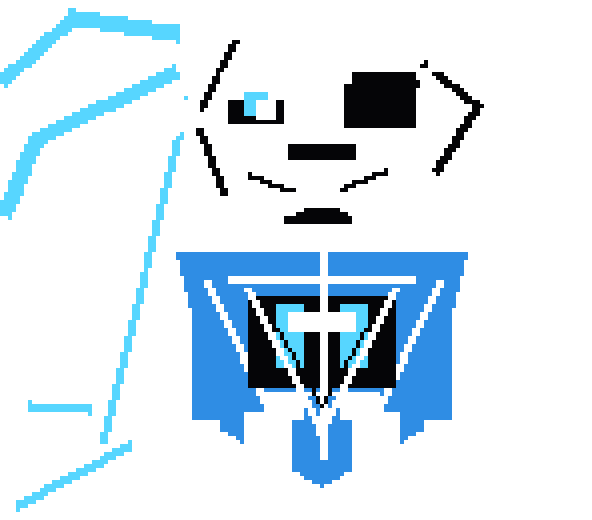
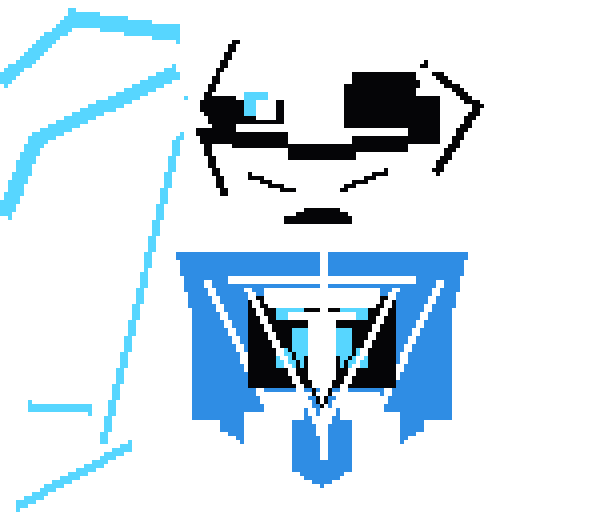
Improve roster pixels and attack pacing

Changed region(s): [[0.4257, 0.5538, 0.6689, 0.7692], [0.5777, 0.1846, 0.7601, 0.3077], [0.3345, 0.1846, 0.4865, 0.3077]]

diff --git a/script.js b/script.js
@@ -349,9 +349,9 @@ const projectileHitboxes = {
 };
 const waveTuning = {
   undyne: [
-    { rate: 0.94, speed: 1.08, length: 10.5, cap: 18 },
-    { rate: 0.86, speed: 1.04, length: 11.5, cap: 24 },
-    { rate: 1.06, speed: 1.12, length: 10.5, cap: 22 },
+    { rate: 1.04, speed: 1.14, length: 10.5, cap: 20 },
+    { rate: 0.96, speed: 1.1, length: 11.5, cap: 26 },
+    { rate: 1.14, speed: 1.18, length: 10.5, cap: 24 },
   ],
   asgore: [
     { rate: 0.8, speed: 0.98, length: 12.5, cap: 28 },
@@ -374,9 +374,9 @@ const waveTuning = {
     { rate: 1.24, speed: 1.22, length: 10, cap: 34 },
   ],
   undying: [
-    { rate: 1.18, speed: 1.12, length: 9.8, cap: 22 },
-    { rate: 1.28, speed: 1.18, length: 9.8, cap: 24 },
-    { rate: 1.08, speed: 1.14, length: 10.5, cap: 30 },
+    { rate: 1.26, speed: 1.16, length: 9.8, cap: 24 },
+    { rate: 1.34, speed: 1.22, length: 9.8, cap: 26 },
+    { rate: 1.14, speed: 1.18, length: 10.5, cap: 32 },
   ],
   omega: [
     { rate: 1.04, speed: 1.04, length: 12, cap: 36 },
@@ -389,9 +389,9 @@ const waveTuning = {
     { rate: 1.1, speed: 1.12, length: 12, cap: 36 },
   ],
   mettaton: [
-    { rate: 0.92, speed: 1.04, length: 12, cap: 26 },
-    { rate: 1.04, speed: 1.1, length: 11.5, cap: 30 },
-    { rate: 1.12, speed: 1.16, length: 10.5, cap: 32 },
+    { rate: 1.0, speed: 1.08, length: 12, cap: 28 },
+    { rate: 1.12, speed: 1.14, length: 11.5, cap: 32 },
+    { rate: 1.2, speed: 1.2, length: 10.5, cap: 34 },
   ],
 };
 
@@ -1112,8 +1112,8 @@ function runPattern(dt) {
 function undynePattern(dt) {
   if (state.wave === 0) {
     const progress = attackIntensity();
-    const interval = 0.6 - progress * 0.2;
-    const arrowSpeed = 224 + progress * 86;
+    const interval = 0.56 - progress * 0.18;
+    const arrowSpeed = 246 + progress * 88;
     const chordStep = 0.12 - progress * 0.05;
     const chord = sequencedEvery("spear-rain", interval, dt, [
       "up",
@@ -1132,14 +1132,14 @@ function undynePattern(dt) {
     ]);
     if (chord) spawnUndyneArrowChord(arrowSpeed, chord.split(" "), chordStep);
   }
-  if (state.wave === 1 && every("cross-lances", 0.56, dt)) {
-    const index = sequenceIndex(0.56);
+  if (state.wave === 1 && every("cross-lances", 0.5, dt)) {
+    const index = sequenceIndex(0.5);
     const lane = [0.18, 0.36, 0.64, 0.82, 0.5, 0.28, 0.72][index % 7];
     const fromLeft = index % 2 === 0;
-    spawn("spear", { x: fromLeft ? arena.x - 35 : arena.x + arena.w + 35, y: arena.y + arena.h * lane, vx: fromLeft ? 348 : -348, vy: 0, r: 13, angle: fromLeft ? 0 : Math.PI, delay: intensityRange(0.3, 0.2) });
+    spawn("spear", { x: fromLeft ? arena.x - 35 : arena.x + arena.w + 35, y: arena.y + arena.h * lane, vx: fromLeft ? 372 : -372, vy: 0, r: 13, angle: fromLeft ? 0 : Math.PI, delay: intensityRange(0.28, 0.19) });
     if (index % 3 !== 1) {
       const x = arena.x + arena.w * ([0.24, 0.5, 0.76, 0.38, 0.62][index % 5]);
-      spawn("spear", { x, y: arena.y - 35, vx: 0, vy: 306, r: 13, angle: Math.PI / 2, delay: intensityRange(0.36, 0.25) });
+      spawn("spear", { x, y: arena.y - 35, vx: 0, vy: 326, r: 13, angle: Math.PI / 2, delay: intensityRange(0.32, 0.23) });
     }
   }
   if (state.wave === 2 && every("cyclone", 0.34 - attackIntensity() * 0.06, dt)) {
@@ -1444,7 +1444,7 @@ function undyingPattern(dt) {
         "down left up",
       ];
       const chord = chords[sequenceIndex(aimedInterval) % chords.length];
-      spawnUndyneArrowChord(268 + progress * 62, chord.split(" "), Math.max(0.045, 0.09 - progress * 0.035));
+      spawnUndyneArrowChord(286 + progress * 66, chord.split(" "), Math.max(0.04, 0.085 - progress * 0.035));
     }
     else {
       const index = sequenceIndex(aimedInterval);
@@ -1454,7 +1454,7 @@ function undyingPattern(dt) {
       const x = edge === 0 ? arena.x - 36 : edge === 1 ? arena.x + arena.w + 36 : arena.x + arena.w * lane;
       const y = edge === 2 ? arena.y - 36 : edge === 3 ? arena.y + arena.h + 36 : arena.y + arena.h * lane;
       const a = Math.atan2(state.player.y - y, state.player.x - x);
-      spawn("spear", { x, y, vx: Math.cos(a) * (276 + progress * 38), vy: Math.sin(a) * (276 + progress * 38), r: 12, angle: a, delay: intensityRange(0.22, 0.14) });
+      spawn("spear", { x, y, vx: Math.cos(a) * (298 + progress * 42), vy: Math.sin(a) * (298 + progress * 42), r: 12, angle: a, delay: intensityRange(0.2, 0.13) });
     }
   }
   const crossInterval = 0.58 - progress * 0.06;
@@ -1655,9 +1655,9 @@ function asrielPattern(dt) {
 function mettatonPattern(dt) {
   const t = patternClock();
   const progress = attackIntensity();
-  const spotInterval = state.wave === 2 ? 0.82 : 0.76 - progress * 0.08;
-  const bombInterval = 0.46 - progress * 0.08;
-  const legInterval = 0.66 - progress * 0.08;
+  const spotInterval = state.wave === 2 ? 0.72 : 0.7 - progress * 0.08;
+  const bombInterval = 0.42 - progress * 0.07;
+  const legInterval = 0.6 - progress * 0.08;
   if (every("mettaton-spot", spotInterval, dt)) {
     const lanes = [0.2, 0.42, 0.64, 0.82, 0.36];
     spawn("beam", {
@@ -1693,7 +1693,7 @@ function mettatonPattern(dt) {
   }
   if (state.wave === 2 && every("mettaton-rush", legInterval, dt)) {
     const y = arena.y + arena.h * ([0.22, 0.44, 0.68, 0.82, 0.36][sequenceIndex(legInterval) % 5]);
-    spawn("leg", { x: arena.x + arena.w + 45, y, vx: -448, vy: 0, r: 22, angle: Math.PI, delay: intensityRange(0.36, 0.25) });
+    spawn("leg", { x: arena.x + arena.w + 45, y, vx: -482, vy: 0, r: 22, angle: Math.PI, delay: intensityRange(0.32, 0.23) });
   }
   if (state.wave === 2 && every("mettaton-ratings-pellets", 0.34 - progress * 0.05, dt)) {
     const index = sequenceIndex(0.34 - progress * 0.05);

diff --git a/tools/generate_boss_portraits.py b/tools/generate_boss_portraits.py
@@ -97,6 +97,11 @@ def sans():
     for x in range(72, 89, 5):
         rect(d, (x, 42, x + 1, 48), BLACK)
     rect(d, (91, 38, 98, 42), BLACK)
+    rect(d, (60, 29, 67, 36), BLACK)
+    rect(d, (93, 29, 100, 36), BLACK)
+    rect(d, (63, 32, 67, 35), WHITE)
+    rect(d, (78, 31, 82, 35), BLACK)
+    line(d, [(66, 39), (75, 43), (94, 38)], BLACK, 2)
     line(d, [(49, 55), (39, 83), (48, 105)], WHITE, 5)
     line(d, [(111, 55), (121, 83), (112, 105)], WHITE, 5)
     rect(d, (45, 54, 115, 98), WHITE)
@@ -111,6 +116,10 @@ def sans():
     rect(d, (75, 60, 85, 92), BLACK)
     rect(d, (78, 60, 82, 67), WHITE)
     rect(d, (78, 83, 82, 92), WHITE)
+    rect(d, (76, 68, 84, 73), BLACK)
+    rect(d, (78, 69, 82, 72), WHITE)
+    rect(d, (72, 58, 88, 62), BLUE)
+    rect(d, (74, 93, 86, 98), BLUE)
     line(d, [(68, 58), (68, 95)], WHITE, 1)
     line(d, [(92, 58), (92, 95)], WHITE, 1)
     rect(d, (73, 72, 87, 77), WHITE)
@@ -156,6 +165,8 @@ def papyrus():
     rect(d, (66, 12, 74, 20), BLACK)
     rect(d, (87, 12, 95, 20), BLACK)
     rect(d, (68, 14, 72, 18), WHITE)
+    rect(d, (90, 14, 93, 18), WHITE)
+    line(d, [(66, 23), (75, 19), (86, 19), (98, 24)], BLACK, 2)
     rect(d, (68, 35, 92, 37), BLACK)
     for x in range(70, 91, 5):
         rect(d, (x, 35, x + 1, 41), BLACK)
@@ -171,10 +182,13 @@ def papyrus():
     rect(d, (72, 73, 88, 82), BLACK)
     rect(d, (76, 70, 84, 83), RED)
     rect(d, (70, 58, 90, 63), RED)
+    rect(d, (71, 61, 89, 65), WHITE)
     rect(d, (58, 66, 102, 71), WHITE)
     rect(d, (60, 75, 100, 88), RED)
     rect(d, (67, 78, 93, 86), BLACK)
     rect(d, (76, 74, 84, 90), RED)
+    rect(d, (67, 69, 93, 74), BLACK)
+    rect(d, (72, 70, 88, 73), WHITE)
     rect(d, (57, 90, 103, 96), WHITE)
     rect(d, (64, 96, 78, 116), BLACK)
     rect(d, (82, 96, 96, 116), BLACK)
@@ -213,6 +227,10 @@ def undyne(name="undyne", undying=False):
     rect(d, (91, 23, 99, 29), BLACK)
     rect(d, (64, 25, 68, 29), WHITE)
     rect(d, (88, 18, 104, 21), BLACK)
+    rect(d, (51, 24, 58, 35), BLACK)
+    rect(d, (102, 24, 109, 35), BLACK)
+    rect(d, (58, 33, 71, 36), BLACK)
+    rect(d, (88, 34, 101, 37), BLACK)
     if undying:
         rect(d, (57, 18, 72, 22), GREEN)
         rect(d, (88, 17, 105, 21), GREEN)
@@ -235,6 +253,10 @@ def undyne(name="undyne", undying=False):
     rect(d, (72, 78, 88, 82), WHITE)
     rect(d, (66, 98, 94, 104), WHITE)
     rect(d, (76, 99, 84, 113), armor)
+    rect(d, (66, 72, 94, 76), WHITE)
+    rect(d, (69, 80, 91, 86), BLACK)
+    rect(d, (73, 82, 87, 88), color)
+    rect(d, (77, 78, 83, 96), WHITE)
     line(d, [(57, 69), (103, 69)], WHITE, 2)
     line(d, [(80, 63), (80, 114)], WHITE, 2)
     trim_panel(d, 61, 72, 99, 108, WHITE, BLACK)
@@ -283,6 +305,9 @@ def asgore():
     rect(d, (89, 29, 93, 32), GOLD)
     rect(d, (68, 47, 92, 52), BLACK)
     line(d, [(68, 43), (80, 49), (92, 43)], BLACK, 2)
+    rect(d, (60, 22, 76, 25), BLACK)
+    rect(d, (84, 22, 100, 25), BLACK)
+    rect(d, (75, 37, 85, 41), BLACK)
     rect(d, (58, 54, 102, 63), WHITE)
     rect(d, (67, 56, 93, 60), BLACK)
     rect(d, (60, 50, 100, 55), GOLD)
@@ -299,6 +324,10 @@ def asgore():
     rect(d, (75, 86, 85, 111), GOLD)
     rect(d, (68, 92, 92, 98), GOLD)
     rect(d, (74, 98, 86, 108), BLACK)
+    rect(d, (66, 74, 94, 79), GOLD)
+    rect(d, (70, 80, 90, 84), WHITE)
+    rect(d, (76, 88, 84, 103), BLACK)
+    rect(d, (78, 90, 82, 100), GOLD)
     poly(d, [(52, 72), (20, 126), (55, 122)], WHITE)
     poly(d, [(108, 72), (140, 126), (105, 122)], WHITE)
     line(d, [(80, 74), (80, 119)], YELLOW, 3)
@@ -322,6 +351,9 @@ def omega():
     rect(d, (55, 14, 63, 20), RED)
     rect(d, (77, 14, 85, 20), RED)
     rect(d, (97, 14, 105, 20), RED)
+    rect(d, (57, 16, 61, 18), WHITE)
+    rect(d, (79, 16, 83, 18), WHITE)
+    rect(d, (99, 16, 103, 18), WHITE)
     rect(d, (69, 5, 91, 11), BLACK)
     rect(d, (61, 3, 99, 8), WHITE)
     rect(d, (66, 5, 94, 9), BLACK)
@@ -352,6 +384,10 @@ def omega():
     rect(d, (69, 82, 91, 112), BLACK)
     rect(d, (74, 75, 86, 82), YELLOW)
     rect(d, (73, 84, 87, 88), YELLOW)
+    rect(d, (64, 76, 96, 80), BLACK)
+    rect(d, (70, 83, 90, 87), YELLOW)
+    rect(d, (75, 88, 85, 106), ORANGE)
+    rect(d, (78, 90, 82, 103), BLACK)
     line(d, [(61, 72), (99, 72)], YELLOW, 2)
     line(d, [(58, 70), (80, 123), (102, 70)], YELLOW, 2)
     line(d, [(54, 120), (106, 120)], ORANGE, 4)
@@ -390,6 +426,8 @@ def asriel():
     rect(d, (84, 26, 95, 34), BLACK)
     rect(d, (67, 27, 72, 31), RED)
     rect(d, (87, 27, 92, 31), RED)
+    rect(d, (62, 21, 77, 25), BLACK)
+    rect(d, (83, 21, 98, 25), BLACK)
     rect(d, (72, 44, 88, 48), BLACK)
     line(d, [(69, 41), (80, 48), (91, 41)], BLACK, 2)
     rect(d, (72, 51, 88, 54), BLACK)
@@ -412,6 +450,11 @@ def asriel():
     rect(d, (76, 74, 84, 97), WHITE)
     rect(d, (72, 78, 88, 86), RED)
     rect(d, (74, 88, 86, 96), BLUE)
+    rect(d, (70, 67, 90, 72), WHITE)
+    rect(d, (73, 73, 87, 78), PURPLE)
+    rect(d, (78, 76, 82, 100), WHITE)
+    rect(d, (68, 82, 76, 93), RED)
+    rect(d, (84, 82, 92, 93), BLUE)
     rect(d, (66, 66, 94, 70), WHITE)
     line(d, [(63, 68), (80, 104), (97, 68)], WHITE, 2)
     trim_panel(d, 61, 67, 99, 112, WHITE, BLACK)
@@ -439,6 +482,11 @@ def mettaton():
     rect(d, (72, 45, 96, 48), BLACK)
     rect(d, (70, 49, 95, 51), WHITE)
     rect(d, (75, 42, 91, 45), PINK)
+    rect(d, (59, 18, 76, 22), BLACK)
+    rect(d, (86, 19, 103, 22), BLACK)
+    rect(d, (80, 33, 86, 37), BLACK)
+    rect(d, (37, 30, 49, 46), HAIR)
+    rect(d, (48, 38, 58, 49), HAIR)
     line(d, [(18, 61), (56, 55), (104, 55), (142, 61)], WHITE, 4)
     rect(d, (48, 57, 112, 67), PINK)
     poly(d, [(53, 66), (107, 66), (102, 104), (80, 118), (58, 104)], WHITE)
@@ -455,6 +503,10 @@ def mettaton():
     rect(d, (75, 81, 85, 93), WHITE)
     rect(d, (72, 78, 88, 82), WHITE)
     rect(d, (76, 84, 84, 92), PINK)
+    rect(d, (65, 70, 95, 75), PINK)
+    rect(d, (69, 76, 91, 82), BLACK)
+    rect(d, (74, 83, 86, 94), WHITE)
+    rect(d, (78, 86, 82, 91), PINK)
     line(d, [(50, 73), (17, 117)], WHITE, 4)
     line(d, [(110, 73), (143, 117)], WHITE, 4)
     line(d, [(65, 101), (43, 126)], WHITE, 5)

diff --git a/README.md b/README.md
@@ -59,6 +59,7 @@ Undyne the Undying and Mettaton now have stronger face/core/armor pixel reads, w
 Disbelief Papyrus and Bad Time Trio now have sharper Papyrus face/body pixels, plus new original final-wave bone-fan and synchronized trio burst patterns with readable safe gaps.
 Asgore and Asriel now have stronger crown/robe/halo-style pixel cues, plus original trident-pinch, saber-cross, and dream-rain pressure for closer mid/final wave practice.
 Omega Flowey now has clearer monitor, red-eye, mouth, and vine-node pixels, and Soul Storm adds an original six-source relay burst with adjacent safe lanes.
+The latest graphics pass adds stronger hand-placed eyes, brows, mouths, collars, chest panels, robes, armor cores, and hair blocks across the whole roster, plus faster Undyne, Undying, and Mettaton pacing where the waves needed more snap.
 Dynamic wave ramps use staged opener/build/finale intensity, so attacks start readable and tighten toward the end instead of changing at one flat rate.
 Weapon warnings and hazard telegraphs also follow that intensity curve, giving longer reads at the start of a turn and quicker warnings during the finale.
 Pattern sequencing now advances with the tuned spawn rate, so faster waves use the intended ordered reads instead of repeating lanes; Sans, Undyne, Undying, Asgore, Omega, Asriel, Mettaton, and Disbelief patterns have tighter speeds and more source-style safe gaps.
